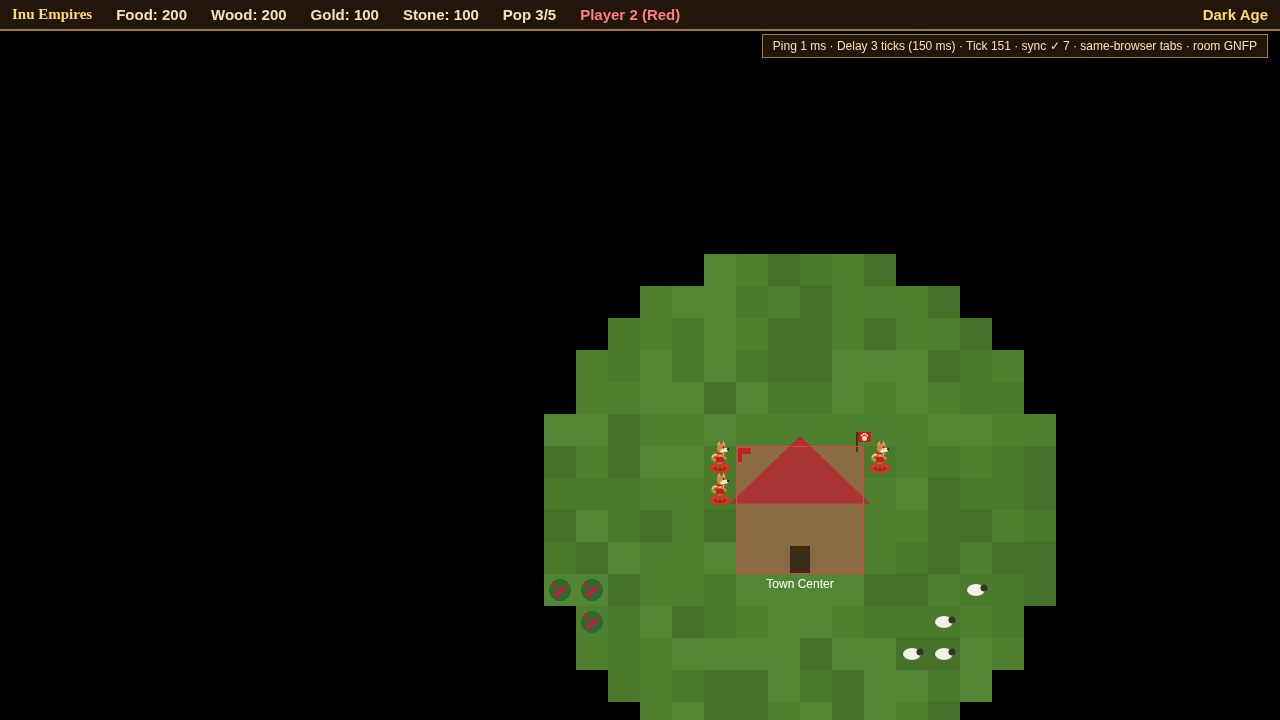
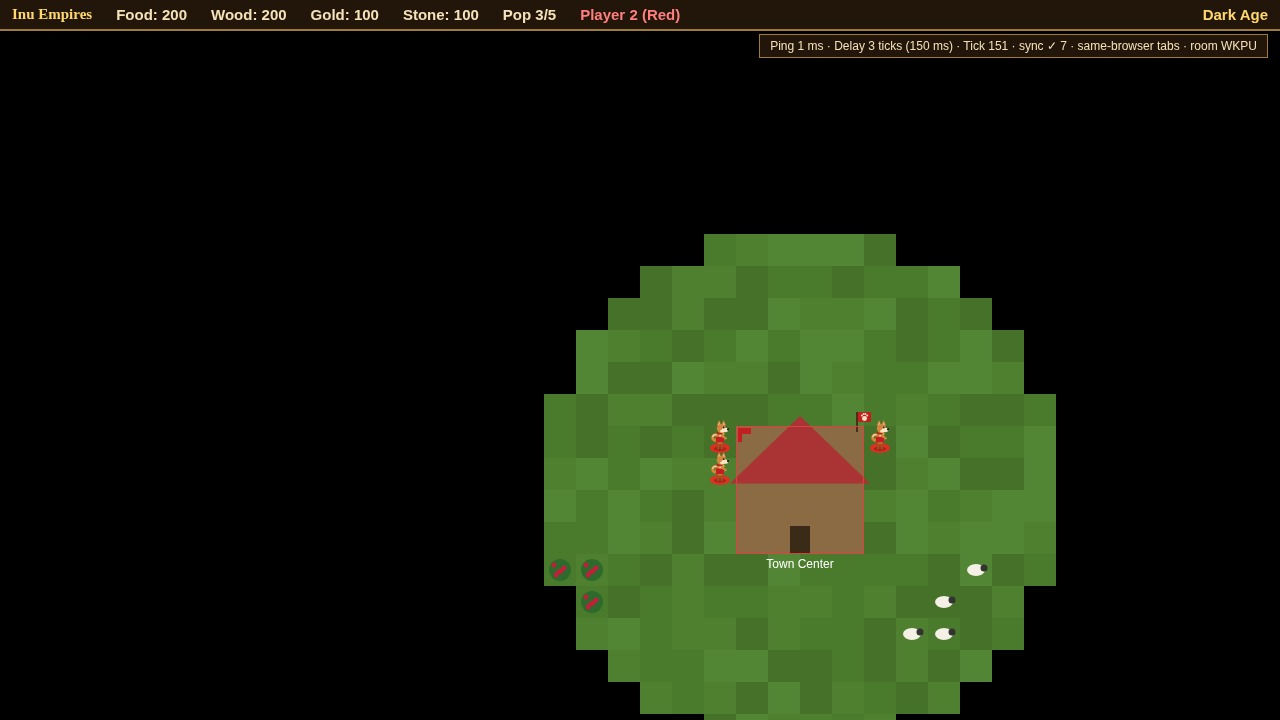
Touch + landscape: tap select, drag pan, pinch zoom, long-press / Command-tap orders, Box select toggle, Clear; compact landscape HUD/info/build menu without overlap, safe-area insets, rotation, non-blocking portrait hint; viewport-fit=cover; scripts/landscape.mjs proof

diff --git a/src/main.js b/src/main.js
@@ -14,12 +14,13 @@ const $ = id => document.getElementById(id);
 let world = null, cam = { x: 0, y: 0 }, ui = createUi(), net = null, fog = null;
 const keys = new Set(); addEventListener('blur', () => keys.clear());
 let mouse = { x: -1, y: -1, inside: false }, drag = null;
-function resize() { canvas.width = innerWidth; canvas.height = innerHeight; if (world) clampCamera(cam, canvas.width, canvas.height, world); } resize(); addEventListener('resize', resize);
+let Z = 1; // touch pinch zoom: the canvas backing store is viewport/Z and CSS-stretched to the viewport (desktop Z=1: unchanged)
+function resize() { canvas.width = Math.round(innerWidth / Z); canvas.height = Math.round(innerHeight / Z); canvas.style.width = innerWidth + 'px'; canvas.style.height = innerHeight + 'px'; if (world) clampCamera(cam, canvas.width, canvas.height, world); } resize(); addEventListener('resize', resize);
 addEventListener('blur', () => { keys.clear(); drag = null; });   // no stuck pan keys after alt-tab
 addEventListener('keydown', e => { if (e.target.tagName === 'INPUT') return; keys.add(e.key.toLowerCase()); if (e.key === 'Escape') cancelPlacing(ui); });
 addEventListener('keyup', e => keys.delete(e.key.toLowerCase()));
 canvas.addEventListener('contextmenu', e => e.preventDefault());
-const toWorld = (sx, sy) => screenToWorld(sx, sy, cam);
+const toWorld = (sx, sy) => screenToWorld(sx / Z, sy / Z, cam);
 const viewer = () => (world && world.viewer) || 'player';
 const isFoe = o => !!o.owner && o.owner !== viewer();
 const seen = o => !fog || fog.sees(o);
@@ -62,6 +63,48 @@ addEventListener('mouseup', e => {
     const s = world.selection; // fog: cannot select what you cannot see
     if (r && r.kind === 'select' && s && (s.kind === 'unit' || s.kind === 'building')) { const o = s.kind === 'unit' ? SIM.mobile(world, s.id) : world.buildings.find(q => q.id === s.id); if (o && !seen(o)) { world.selection = null; world.selected = null; } } }
 });
+// ---- touch: tap select, drag pan, pinch zoom, long-press / Command tap = order, Box toggle = drag-select ----
+const touchUi = { box: false, command: false }; let tp = null; // touch gesture state
+const tbar = $('touchbar');
+const syncTbar = () => { for (const b of tbar.querySelectorAll('button')) b.classList.toggle('active', !!touchUi[b.dataset.t]); window.game && (window.game.touch = { ...touchUi }); };
+tbar.addEventListener('click', e => { const b = e.target.closest('button'); if (!b) return; const t = b.dataset.t;
+  if (t === 'cancel') { cancelPlacing(ui); touchUi.command = touchUi.box = false; if (world) { world.selection = null; world.selected = null; } }
+  else { touchUi[t] = !touchUi[t]; if (touchUi[t]) touchUi[t === 'box' ? 'command' : 'box'] = false; }
+  syncTbar(); });
+const pts = e => [...e.touches].map(t => ({ x: t.clientX, y: t.clientY }));
+function touchCommand(x, y) { const p = toWorld(x, y); mouse = { x, y, inside: false }; rightClick(p.x, p.y); }
+function setZoom(nz, fx, fy) { nz = Math.max(0.5, Math.min(2, nz)); const w = toWorld(fx, fy); Z = nz; resize(); cam.x = w.x * TILE - fx / Z; cam.y = w.y * TILE - fy / Z; clampCamera(cam, canvas.width, canvas.height, world); }
+canvas.addEventListener('touchstart', e => { e.preventDefault(); if (!world) return; const p = pts(e);
+  if (p.length >= 2) { clearTimeout(tp?.lp); ui.press = null; ui.box = null; const [a, b] = p;
+    tp = { pinch: true, d: Math.hypot(a.x - b.x, a.y - b.y), z: Z, mx: (a.x + b.x) / 2, my: (a.y + b.y) / 2 }; return; }
+  if (tp?.pinch) return;
+  const [a] = p; tp = { x: a.x, y: a.y, cx: cam.x, cy: cam.y, moved: false, done: false, t0: performance.now() };
+  if (touchUi.box) pointerDown(ui, a.x, a.y);
+  else if (!ui.placing) tp.lp = setTimeout(() => { if (tp && !tp.moved && !tp.pinch) { tp.done = true; touchCommand(tp.x, tp.y); navigator.vibrate?.(20); } }, 450);
+}, { passive: false });
+canvas.addEventListener('touchmove', e => { e.preventDefault(); if (!world || !tp) return; const p = pts(e);
+  if (tp.pinch) { if (p.length < 2) return; const [a, b] = p, mx = (a.x + b.x) / 2, my = (a.y + b.y) / 2;
+    setZoom(tp.z * Math.hypot(a.x - b.x, a.y - b.y) / tp.d, mx, my); cam.x -= (mx - tp.mx) / Z; cam.y -= (my - tp.my) / Z; tp.mx = mx; tp.my = my; clampCamera(cam, canvas.width, canvas.height, world); return; }
+  const [a] = p; if (Math.hypot(a.x - tp.x, a.y - tp.y) > 10) { tp.moved = true; clearTimeout(tp.lp); }
+  if (touchUi.box) { pointerMove(ui, a.x, a.y); return; }
+  if (ui.placing) { mouse = { x: a.x, y: a.y, inside: false }; refreshGhost(); }
+  if (tp.moved && !ui.placing) { cam.x = tp.cx - (a.x - tp.x) / Z; cam.y = tp.cy - (a.y - tp.y) / Z; clampCamera(cam, canvas.width, canvas.height, world); }
+}, { passive: false });
+const touchEnd = e => { e.preventDefault(); if (!world || !tp) return;
+  if (tp.pinch) { if (e.touches.length === 0) tp = null; return; }
+  clearTimeout(tp.lp); const g = tp; tp = null; const t = e.changedTouches[0], x = t ? t.clientX : g.x, y = t ? t.clientY : g.y;
+  if (touchUi.box) { pointerMove(ui, x, y); pointerUp(ui, world, toWorld, issue); return; }
+  if (g.done) return;
+  if (ui.placing) { if (g.moved && Math.hypot(x - g.x, y - g.y) > 10) { mouse = { x, y, inside: false }; refreshGhost(); } pointerDown(ui, x, y); pointerUp(ui, world, toWorld, issue); return; }
+  if (g.moved) return;
+  if (touchUi.command) { touchCommand(x, y); return; }
+  pointerDown(ui, x, y); const r = pointerUp(ui, world, toWorld, issue); const s = world.selection;
+  if (r && r.kind === 'select' && s && (s.kind === 'unit' || s.kind === 'building')) { const o = s.kind === 'unit' ? SIM.mobile(world, s.id) : world.buildings.find(q => q.id === s.id); if (o && !seen(o)) { world.selection = null; world.selected = null; } }
+};
+canvas.addEventListener('touchend', touchEnd, { passive: false }); canvas.addEventListener('touchcancel', e => { clearTimeout(tp?.lp); tp = null; ui.press = null; ui.box = null; e.preventDefault(); }, { passive: false });
+for (const t of ['gesturestart', 'dblclick']) document.addEventListener(t, e => e.preventDefault());
+const orient = () => { document.documentElement.dataset.orient = innerWidth >= innerHeight ? 'landscape' : 'portrait'; scrollTo(0, 0); };
+addEventListener('resize', orient); addEventListener('orientationchange', () => setTimeout(() => { resize(); orient(); }, 100)); orient();
 // ---- HUD / panels ----
 const bannerEl = $('banner'), hud = $('hud'), infoEl = $('info'), cmdEl = $('commands'), msgEl = $('msg'), netEl = $('net'), stallEl = $('stall'), desyncEl = $('desync');
 let lastCmd = '';
@@ -135,7 +178,7 @@ function startGame({ mp = false, seed = 1, me = 0, cfg = {}, session = null } = 
   }
   const tc = world.buildings.find(b => b.type === 'town_center' && b.owner === viewer());
   const c = mp ? { x: tc.x + 2, y: tc.y + 2 } : { x: 34, y: 34 };
-  cam.x = c.x * TILE - innerWidth / 2; cam.y = c.y * TILE - innerHeight / 2; clampCamera(cam, canvas.width, canvas.height, world);
+  cam.x = c.x * TILE - canvas.width / 2; cam.y = c.y * TILE - canvas.height / 2; clampCamera(cam, canvas.width, canvas.height, world);
   Object.assign(window.game, { world, cam, ui, mode: mp ? 'mp' : 'sp' });
   for (const id of ['menu', 'lobby', 'title-bg']) $(id).style.display = 'none';
   last = performance.now(); requestAnimationFrame(frame);
@@ -166,10 +209,10 @@ function frame(now) {
   if (ui.placing) refreshGhost(); if (mouse.inside) updateCursor(); render(ctx, world, cam, ui, net ? fog : null); updateHud(); requestAnimationFrame(frame);
 }
 // Automation hook: read-only state access + time advance in single player (proof scripts must not use it to issue orders).
-window.game = { sim: SIM, world: null, cam, ui, selectionInfo, pickAt, toScreen: (x, y) => worldToScreen(x, y, cam), toWorld,
+window.game = { sim: SIM, world: null, cam, ui, selectionInfo, pickAt, toScreen: (x, y) => { const q = worldToScreen(x, y, cam); return { x: q.x * Z, y: q.y * Z }; }, zoom: () => Z, toWorld,
   tick: (s) => { if (net) throw new Error('no fast-forward in multiplayer'); const n = Math.round(s / TICK_DT); for (let i = 0; i < n; i++) stepTick(world); render(ctx, world, cam, ui); updateHud(); },
   stateHash: () => world && stateHash(world),
-  getSelected: () => getSelected(world) };
+  getSelected: () => getSelected(world), touch: { ...touchUi } };
 
 // ---- main menu / lobby ----
 let session = null;

diff --git a/index.html b/index.html
@@ -1,5 +1,6 @@
 <!doctype html>
-<html><head><meta charset="utf-8"><title>Inu Empires</title>
+<html><head><meta charset="utf-8">
+<meta name="viewport" content="width=device-width,initial-scale=1,maximum-scale=1,user-scalable=no,viewport-fit=cover"><title>Inu Empires</title>
 <style>
 html,body{margin:0;overflow:hidden;background:#000}
 #hud{position:fixed;top:0;left:0;right:0;padding:6px 12px;background:rgba(40,25,10,.85);color:#f4e2b8;font:bold 15px sans-serif;display:flex;gap:24px;pointer-events:none;border-bottom:2px solid #a07a3a}
@@ -41,8 +42,30 @@ html,body{margin:0;overflow:hidden;background:#000}
 .screen h1{font:bold 64px Georgia,serif!important;letter-spacing:3px;background:linear-gradient(#fff2b0,#ffc040 55%,#c07a20);-webkit-background-clip:text;background-clip:text;color:transparent!important;filter:drop-shadow(0 4px 3px #000)}
 .screen .tag{font:italic 16px Georgia,serif;color:#f4d8a0;margin-top:-10px;letter-spacing:2px}
 #brand{color:#ffd86b;font-family:Georgia,serif}
+html,body{position:fixed;inset:0;overscroll-behavior:none}
+#game{display:block;touch-action:none}
+#touchbar,#rotate{display:none}
+#hud{padding-left:max(12px,env(safe-area-inset-left));padding-right:max(12px,env(safe-area-inset-right));padding-top:max(6px,env(safe-area-inset-top))}
+@media (pointer:coarse),(hover:none){
+ body{-webkit-user-select:none;user-select:none;-webkit-touch-callout:none;-webkit-tap-highlight-color:transparent}
+ #touchbar{display:flex;flex-direction:column;gap:6px;position:fixed;top:calc(40px + env(safe-area-inset-top));right:max(8px,env(safe-area-inset-right));z-index:5}
+ #touchbar button{font:bold 13px sans-serif;min-width:92px;min-height:40px;padding:4px 8px;background:#5a3c18cc;color:#f4e2b8;border:2px solid #a07a3a;border-radius:6px;touch-action:manipulation}
+ #touchbar button.active{background:#2f6a1c;border-color:#6f6}
+ #commands button,.screen button{touch-action:manipulation}
+ html[data-orient=portrait] #rotate{display:block;position:fixed;bottom:calc(10px + env(safe-area-inset-bottom));right:10px;z-index:11;padding:6px 12px;background:#000a;color:#ffd86b;font:bold 13px sans-serif;border:1px solid #d4a640;border-radius:6px;pointer-events:none}
+}
+@media (max-height:520px){
+ #hud{font-size:12px;gap:12px;padding-top:max(4px,env(safe-area-inset-top));padding-bottom:4px;white-space:nowrap;overflow:hidden}#brand{display:none}
+ #msg{top:30px;font-size:13px}#banner{font-size:20px;padding:10px 24px}#net{top:28px;font-size:10px}
+ #info{left:max(8px,env(safe-area-inset-left));bottom:max(8px,env(safe-area-inset-bottom));min-width:170px;max-width:30vw;max-height:calc(100vh - 60px);overflow:hidden;font-size:12px;padding:6px 10px}#info b{font-size:13px}
+ #commands{left:auto;right:max(8px,env(safe-area-inset-right));bottom:max(8px,env(safe-area-inset-bottom));max-height:calc(100vh - 190px);overflow-y:auto;flex-wrap:wrap;align-content:flex-start;width:min(348px,calc(100vw - 32vw - 30px));gap:3px!important}
+ #commands button{width:84px;font-size:10px!important;padding:2px 3px!important}#commands button small{font-size:9px}
+ #touchbar{top:calc(30px + env(safe-area-inset-top))}#touchbar button{min-height:34px;min-width:84px;font-size:12px}
+ .screen{justify-content:flex-start;overflow-y:auto;padding:8px 0}#menu{padding-left:max(5vw,env(safe-area-inset-left))}.screen .panel{gap:6px;padding:10px 20px}
+ .screen h1{font-size:34px!important}.screen button{padding:6px 18px;font-size:14px}.screen .hint{font-size:11px}#lobby-code{font-size:30px}.pl{min-width:300px}
+}
 </style>
-</head><body><div id="hud"></div><div id="msg"></div><div id="banner"></div><div id="info"></div><div id="commands"></div><div id="net"></div><div id="stall"></div><div id="desync"></div><canvas id="game"></canvas><canvas id="title-bg"></canvas>
+</head><body><div id="hud"></div><div id="msg"></div><div id="banner"></div><div id="info"></div><div id="commands"></div><div id="net"></div><div id="stall"></div><div id="desync"></div><canvas id="game"></canvas><div id="touchbar"><button data-t="command">Command</button><button data-t="box">Box select</button><button data-t="cancel">Clear</button></div><div id="rotate">Rotate for best play ⟳</div><canvas id="title-bg"></canvas>
 <div id="menu" class="screen"><div class="panel"><h1>Inu Empires</h1><div class="tag">Rise of the Shiba Clans</div>
  <button id="btn-sp">Single Player</button>
  <div class="row"><label for="transport">Online via</label><select id="transport"><option value="tabs">Same browser (two tabs)</option><option value="relay">Relay server (WebSocket)</option></select></div>
